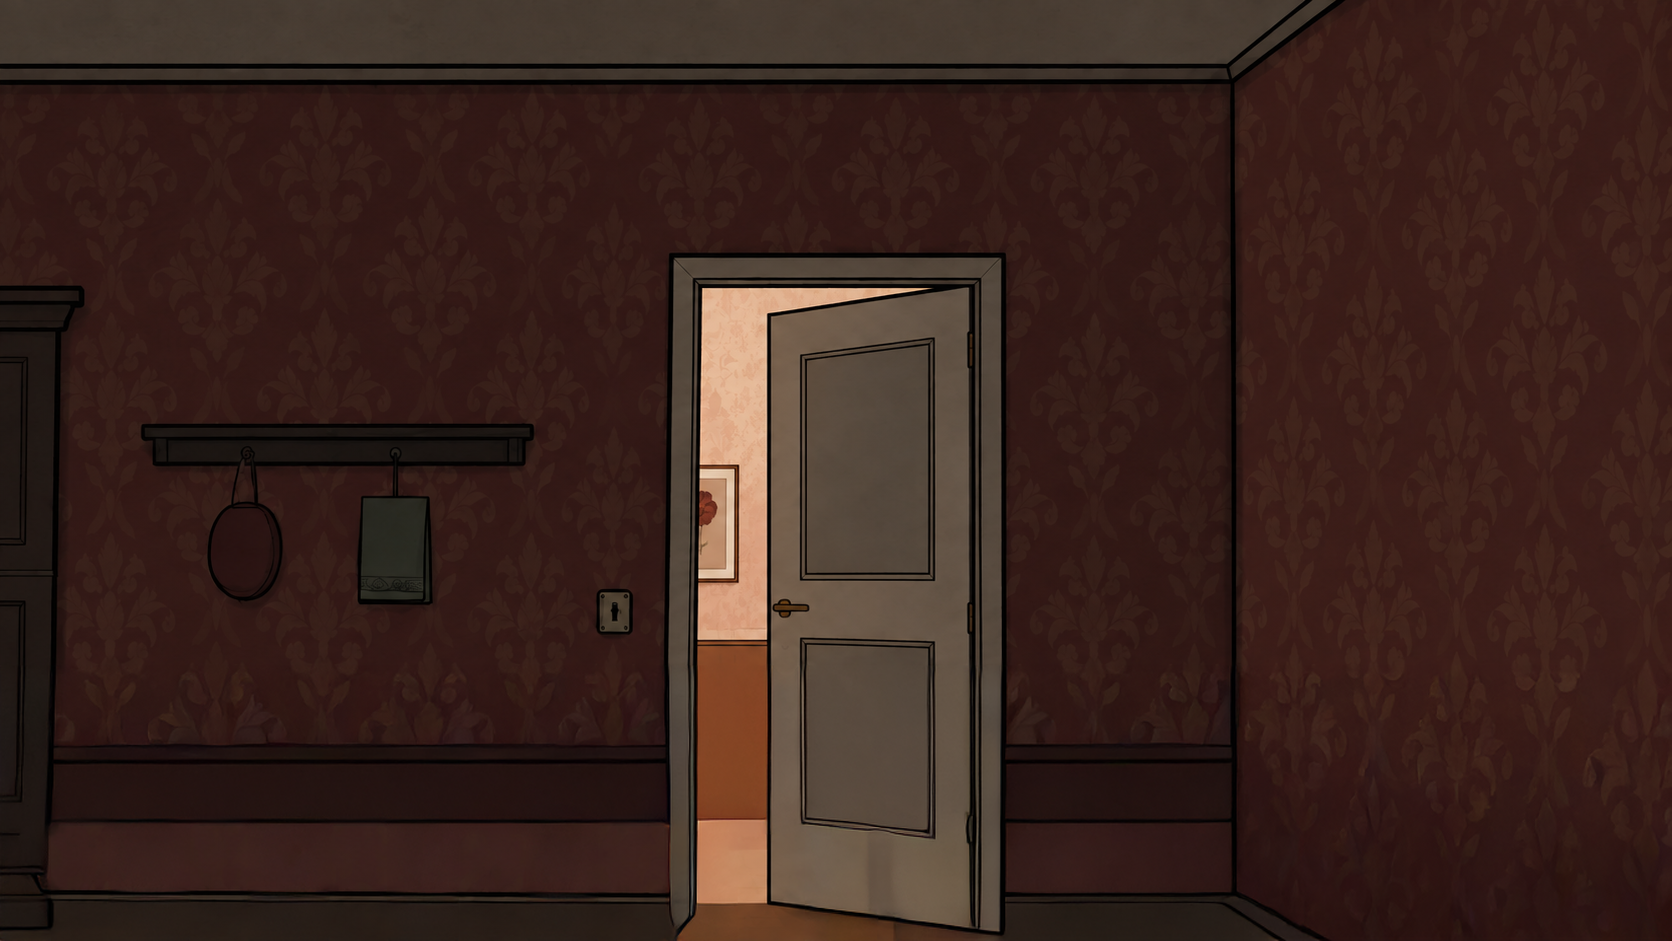
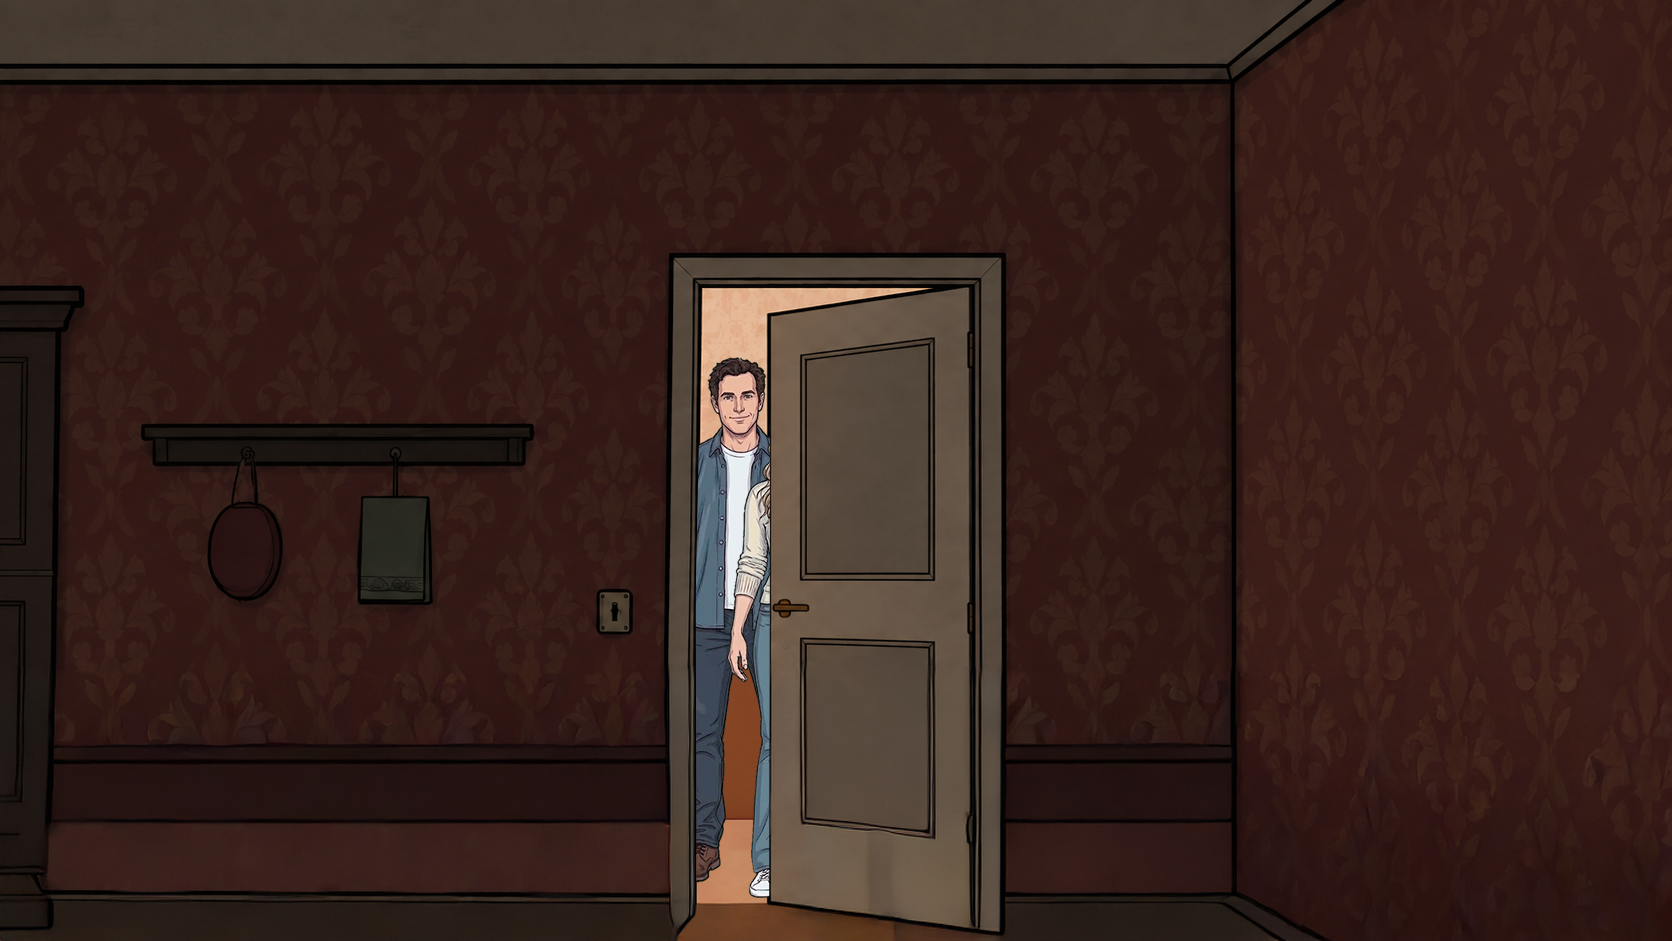
adjust tutorial anim

Changed region(s): [[0.4043, 0.3698, 0.4665, 0.9554]]

diff --git a/src/game/config.ts b/src/game/config.ts
@@ -3,7 +3,7 @@ export const config = {
   nightDuration: 45, // seconds of survival needed to reach dawn
   // Calm-time ranges in seconds, rolled fresh each time so monsters can't be timed.
   firstThreatDelay: { min: 3, max: 5 }, // before the first monster
-  threatInterval: { min: 3, max: 5 }, // between monsters
+  threatInterval: { min: 3, max: 6 }, // between monsters
   monsterApproachTime: { min: 3, max:5 }, // seconds from monster appearing to reaching the baby
 
   callPresses: 5, // space presses needed to summon the parents
